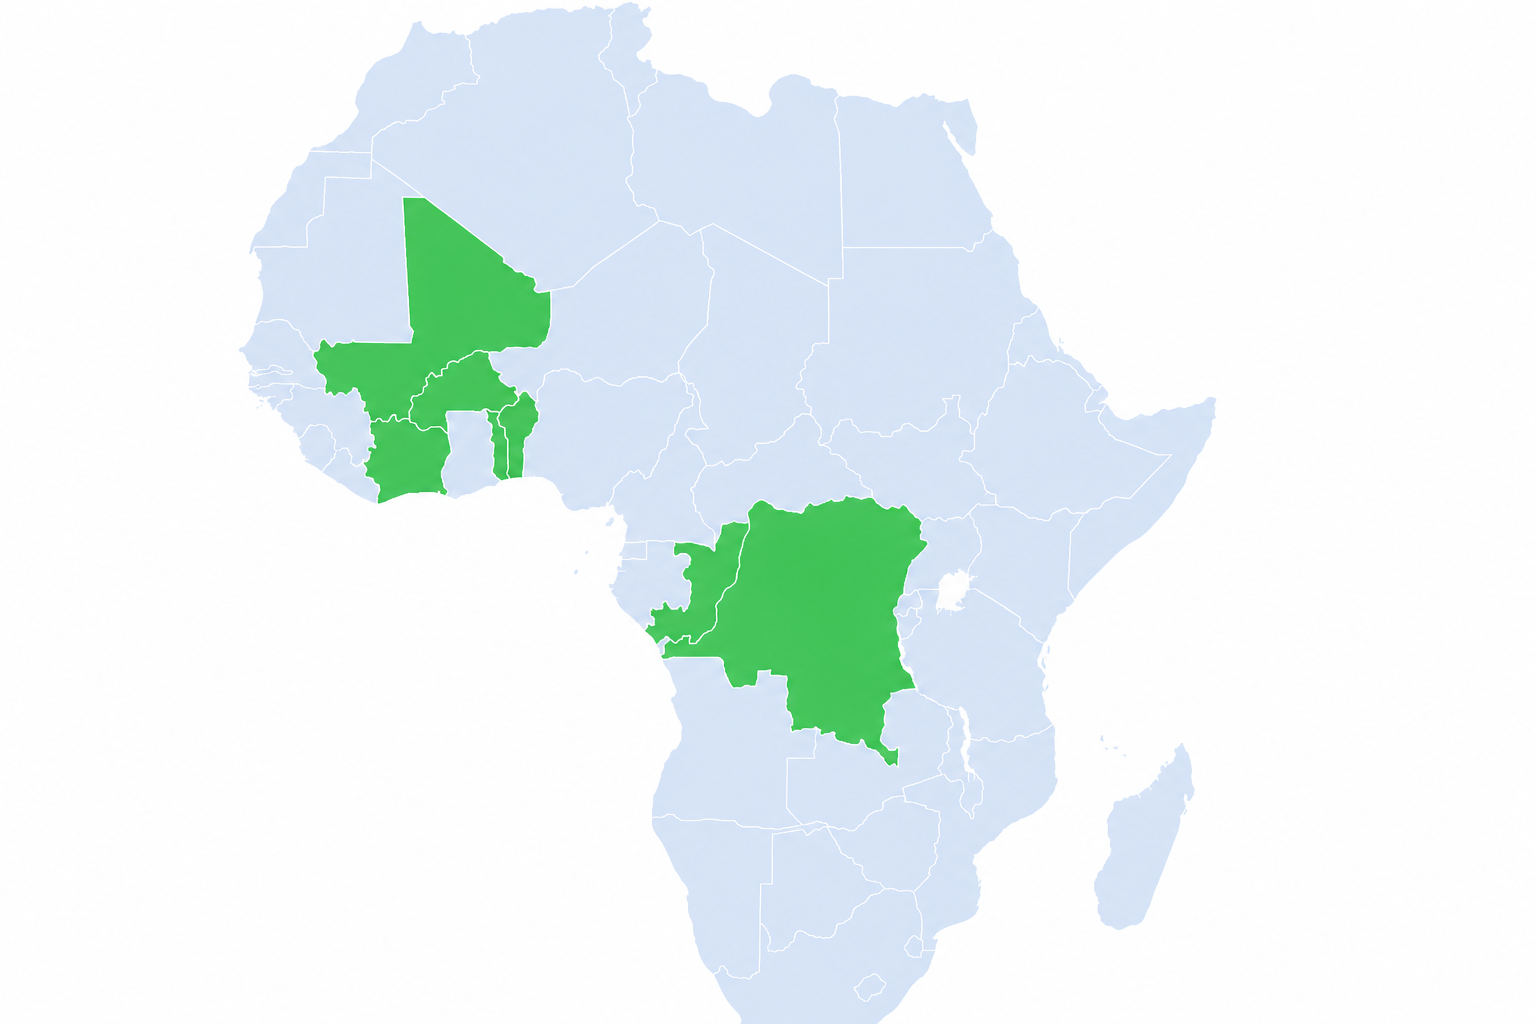
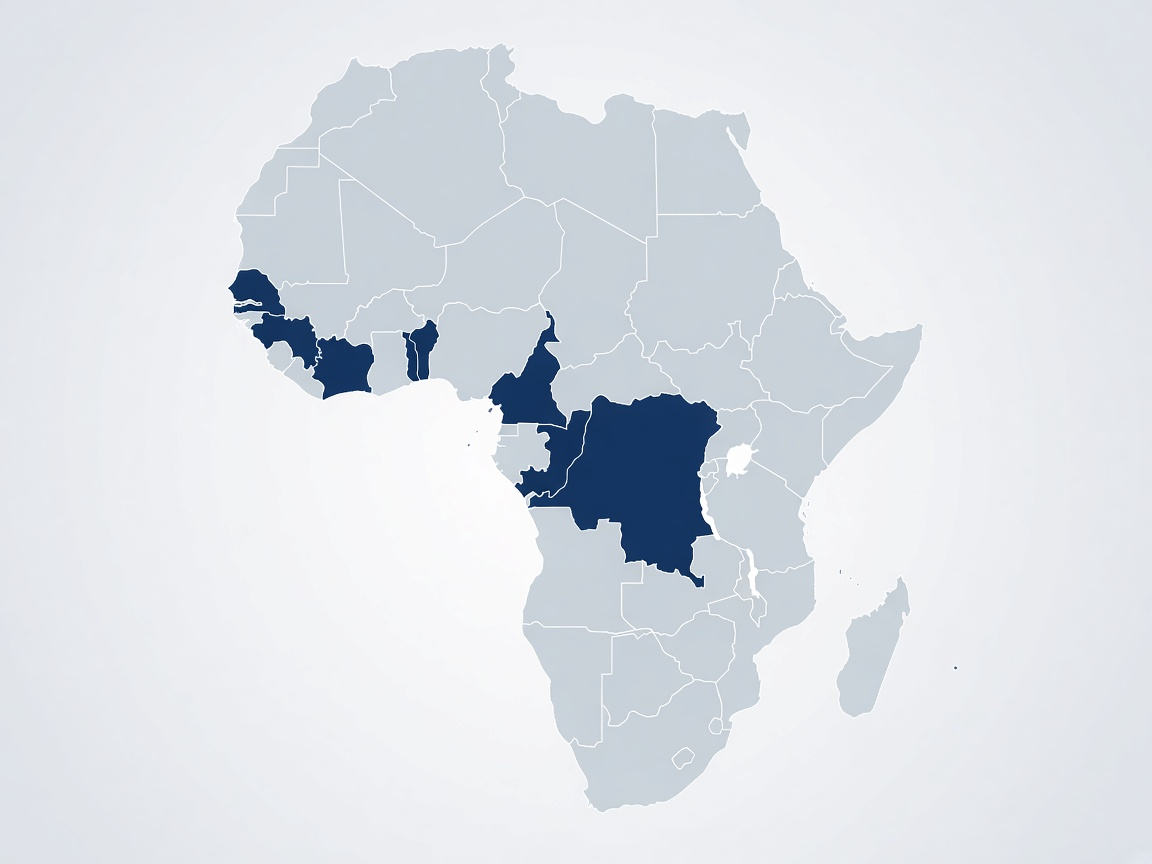
Align FidexaPay coverage to seven markets and drop Burkina, Mali, Togo.
Update homepage map, flags, payment country lists, profile currencies, and SEO copy to Cameroun, Senegal, Cote d'Ivoire, RD Congo, Congo, Benin, and Gabon.

diff --git a/src/components/brand/AfricaCoverageMap.tsx b/src/components/brand/AfricaCoverageMap.tsx
@@ -2,14 +2,15 @@ import { motion, AnimatePresence } from 'framer-motion';
 import { useEffect, useState } from 'react';
 import { cn } from '@/lib/utils';
 
+/** 7 pays couverts FidexaPay — positions relatives sur la carte */
 export const COVERED_COUNTRIES = [
-  { id: 'bj', name: 'Bénin', flagSrc: '/assets/flags/bj.svg', x: 36.2, y: 44.5 },
-  { id: 'bf', name: 'Burkina Faso', flagSrc: '/assets/flags/bf.svg', x: 32.8, y: 38.5 },
+  { id: 'sn', name: 'Sénégal', flagSrc: '/assets/flags/sn.svg', x: 18.5, y: 31.5 },
   { id: 'ci', name: "Côte d'Ivoire", flagSrc: '/assets/flags/ci.svg', x: 28.5, y: 46.5 },
-  { id: 'cd', name: 'RD Congo', flagSrc: '/assets/flags/cd.svg', x: 54.5, y: 60 },
+  { id: 'bj', name: 'Bénin', flagSrc: '/assets/flags/bj.svg', x: 36.2, y: 44.5 },
+  { id: 'cm', name: 'Cameroun', flagSrc: '/assets/flags/cm.svg', x: 44.5, y: 49 },
+  { id: 'ga', name: 'Gabon', flagSrc: '/assets/flags/ga.svg', x: 45.5, y: 55.5 },
   { id: 'cg', name: 'Congo', flagSrc: '/assets/flags/cg.svg', x: 48.5, y: 56 },
-  { id: 'ml', name: 'Mali', flagSrc: '/assets/flags/ml.svg', x: 29.5, y: 32 },
-  { id: 'tg', name: 'Togo', flagSrc: '/assets/flags/tg.svg', x: 34.8, y: 45.5 },
+  { id: 'cd', name: 'RD Congo', flagSrc: '/assets/flags/cd.svg', x: 54.5, y: 60 },
 ] as const;
 
 type AfricaCoverageMapProps = {
@@ -28,7 +29,7 @@ export function AfricaCoverageMap({
   const isLight = theme === 'light';
   const [internalActive, setInternalActive] = useState(0);
   const active = activeIndex ?? internalActive;
-  const activeCountry = COVERED_COUNTRIES[active] ?? COVERED_COUNTRIES[5];
+  const activeCountry = COVERED_COUNTRIES[active] ?? COVERED_COUNTRIES[0];
 
   useEffect(() => {
     if (activeIndex !== undefined) return;
@@ -83,7 +84,14 @@ export function AfricaCoverageMap({
               <motion.span
                 animate={
                   isActive
-                    ? { scale: [1, 1.2, 1], boxShadow: ['0 0 0 0 rgba(43,182,115,0.5)', '0 0 0 10px rgba(43,182,115,0)', '0 0 0 0 rgba(43,182,115,0.5)'] }
+                    ? {
+                        scale: [1, 1.2, 1],
+                        boxShadow: [
+                          '0 0 0 0 rgba(43,182,115,0.5)',
+                          '0 0 0 10px rgba(43,182,115,0)',
+                          '0 0 0 0 rgba(43,182,115,0.5)',
+                        ],
+                      }
                     : { scale: 1, boxShadow: '0 0 0 0 rgba(43,182,115,0)' }
                 }
                 transition={isActive ? { duration: 1.5, repeat: Infinity } : { duration: 0.25 }}
@@ -107,9 +115,7 @@ export function AfricaCoverageMap({
             transition={{ duration: 0.28 }}
             className={cn(
               'inline-flex items-center gap-3 rounded-full border px-4 py-2.5 shadow-sm',
-              isLight
-                ? 'border-black/[0.06] bg-white'
-                : 'border-white/10 bg-[#0B1220]/85'
+              isLight ? 'border-black/[0.06] bg-white' : 'border-white/10 bg-[#0B1220]/85'
             )}
           >
             <img src={activeCountry.flagSrc} alt="" className="h-5 w-7 rounded-sm object-cover" />
@@ -123,19 +129,20 @@ export function AfricaCoverageMap({
       </div>
 
       {showLegend && (
-        <ul className="mt-4 flex flex-wrap justify-center gap-2">
+        <ul className="mt-6 flex flex-wrap justify-center gap-2">
           {COVERED_COUNTRIES.map((c, i) => (
-            <li
-              key={c.id}
-              className={cn(
-                'inline-flex items-center gap-1.5 rounded-full border px-2.5 py-1 text-xs transition-colors',
-                i === active
-                  ? 'border-[#2BB673]/50 bg-[#E8F8F0] text-[#1A3A5C]'
-                  : 'border-black/[0.06] bg-white text-[#6B7280]'
-              )}
-            >
-              <img src={c.flagSrc} alt="" className="h-3.5 w-5 rounded-[2px] object-cover" loading="lazy" />
-              {c.name}
+            <li key={c.id}>
+              <span
+                className={cn(
+                  'inline-flex items-center gap-2 rounded-full border px-3 py-1.5 text-xs',
+                  i === active
+                    ? 'border-[#2BB673]/40 bg-[#E8F8F0] text-[#1A3A5C]'
+                    : 'border-black/[0.06] bg-white text-[#5c7188]'
+                )}
+              >
+                <img src={c.flagSrc} alt="" className="h-3.5 w-5 rounded-[2px] object-cover" />
+                {c.name}
+              </span>
             </li>
           ))}
         </ul>
@@ -143,5 +150,3 @@ export function AfricaCoverageMap({
     </div>
   );
 }
-
-export default AfricaCoverageMap;

diff --git a/src/lib/kpayProviders.ts b/src/lib/kpayProviders.ts
@@ -6,7 +6,8 @@ export type KPayCountry = {
 };
 
 /** Pays affichés côté client / couverture FidexaPay */
-export const FIDEXA_COVERAGE_CODES = ['BJ', 'BF', 'CI', 'CD', 'CG', 'ML', 'TG'] as const;
+/** Couverture FidexaPay : BJ, CM, CI, CD, CG, SN, GA */
+export const FIDEXA_COVERAGE_CODES = ['BJ', 'CM', 'CI', 'CD', 'CG', 'SN', 'GA'] as const;
 
 export type FidexaCoverageCode = (typeof FIDEXA_COVERAGE_CODES)[number];
 
@@ -18,15 +19,6 @@ export const KPAY_COUNTRIES: KPayCountry[] = [
     providers: [
       { code: 'MTN_MOMO_BEN', label: 'MTN MoMo' },
       { code: 'MOOV_BEN', label: 'Moov Money' },
-    ],
-  },
-  {
-    code: 'BF',
-    name: 'Burkina Faso',
-    phonePrefix: '+226',
-    providers: [
-      { code: 'ORANGE_BFA', label: 'Orange Money' },
-      { code: 'MOOV_BFA', label: 'Moov Money' },
     ],
   },
   {
@@ -69,33 +61,10 @@ export const KPAY_COUNTRIES: KPayCountry[] = [
     ],
   },
   {
-    code: 'ML',
-    name: 'Mali',
-    phonePrefix: '+223',
-    providers: [
-      { code: 'ORANGE_MLI', label: 'Orange Money' },
-      { code: 'AIRTEL_MLI', label: 'Airtel Money' },
-    ],
-  },
-  {
-    code: 'TG',
-    name: 'Togo',
-    phonePrefix: '+228',
-    providers: [
-      { code: 'MTN_MOMO_TGO', label: 'MTN MoMo' },
-      { code: 'MOOV_TGO', label: 'Moov Money' },
-    ],
-  },
-  { code: 'GA', name: 'Gabon', phonePrefix: '+241', providers: [{ code: 'AIRTEL_GAB', label: 'Airtel Money' }] },
-  { code: 'KE', name: 'Kenya', phonePrefix: '+254', providers: [{ code: 'MPESA_KEN', label: 'M-Pesa' }] },
-  {
-    code: 'RW',
-    name: 'Rwanda',
-    phonePrefix: '+250',
-    providers: [
-      { code: 'AIRTEL_RWA', label: 'Airtel Money' },
-      { code: 'MTN_MOMO_RWA', label: 'MTN MoMo' },
-    ],
+    code: 'GA',
+    name: 'Gabon',
+    phonePrefix: '+241',
+    providers: [{ code: 'AIRTEL_GAB', label: 'Airtel Money' }],
   },
   {
     code: 'SN',
@@ -104,6 +73,18 @@ export const KPAY_COUNTRIES: KPayCountry[] = [
     providers: [
       { code: 'FREE_SEN', label: 'Free Money' },
       { code: 'ORANGE_SEN', label: 'Orange Money' },
+      { code: 'WAVE_SEN', label: 'Wave' },
+    ],
+  },
+  // Autres pays KPay (hors couverture Fidexa — utiles pour API / settle)
+  { code: 'KE', name: 'Kenya', phonePrefix: '+254', providers: [{ code: 'MPESA_KEN', label: 'M-Pesa' }] },
+  {
+    code: 'RW',
+    name: 'Rwanda',
+    phonePrefix: '+250',
+    providers: [
+      { code: 'AIRTEL_RWA', label: 'Airtel Money' },
+      { code: 'MTN_MOMO_RWA', label: 'MTN MoMo' },
     ],
   },
   { code: 'SL', name: 'Sierra Leone', phonePrefix: '+232', providers: [{ code: 'ORANGE_SLE', label: 'Orange Money' }] },

diff --git a/src/components/brand/MobileMoneyIcons.tsx b/src/components/brand/MobileMoneyIcons.tsx
@@ -35,11 +35,11 @@ export function VodafoneCashIcon({ className, title = 'Vodafone Cash' }: IconPro
 }
 
 export const MOBILE_MONEY_NETWORKS = [
-  { id: 'orange', name: 'Orange Money', Icon: OrangeMoneyIcon, countries: 'CI · SN · ML · BF · CD' },
-  { id: 'mtn', name: 'MTN MoMo', Icon: MtnMoneyIcon, countries: 'CI · BJ · CG · CM · TG' },
-  { id: 'airtel', name: 'Airtel Money', Icon: AirtelMoneyIcon, countries: 'CD · CG · ML' },
+  { id: 'orange', name: 'Orange Money', Icon: OrangeMoneyIcon, countries: 'CI · SN · CM · CD' },
+  { id: 'mtn', name: 'MTN MoMo', Icon: MtnMoneyIcon, countries: 'CI · BJ · CG · CM' },
+  { id: 'airtel', name: 'Airtel Money', Icon: AirtelMoneyIcon, countries: 'CD · CG · GA' },
   { id: 'mpesa', name: 'M-Pesa', Icon: MpesaIcon, countries: 'CD' },
-  { id: 'moov', name: 'Moov Money', Icon: MoovMoneyIcon, countries: 'CI · BJ · TG · BF' },
+  { id: 'moov', name: 'Moov Money', Icon: MoovMoneyIcon, countries: 'CI · BJ' },
   { id: 'wave', name: 'Wave', Icon: WaveIcon, countries: 'CI · SN · BJ' },
   { id: 'vodafone', name: 'Vodafone Cash', Icon: VodafoneCashIcon, countries: 'CD' },
 ] as const;

diff --git a/src/lib/countriesData.ts b/src/lib/countriesData.ts
@@ -75,19 +75,31 @@ export const COUNTRIES_DATA = {
     flag: '🇨🇲',
     phonePrefix: '+237',
   },
-  'TG': {
-    name: 'Togo',
-    nameFR: 'Togo',
-    code: 'TG',
+  'SN': {
+    name: 'Senegal',
+    nameFR: 'Sénégal',
+    code: 'SN',
     currency: 'XOF',
     currencyName: 'Franc CFA WAEMU',
     mobileMoneyProviders: [
       { name: 'Orange Money', icon: '📱' },
-      { name: 'MTN Money', icon: '📱' },
+      { name: 'Free Money', icon: '📱' },
       { name: 'Wave', icon: '📱' },
     ],
-    flag: '🇹🇬',
-    phonePrefix: '+228',
+    flag: '🇸🇳',
+    phonePrefix: '+221',
+  },
+  'GA': {
+    name: 'Gabon',
+    nameFR: 'Gabon',
+    code: 'GA',
+    currency: 'XAF',
+    currencyName: 'Franc CFA BEAC',
+    mobileMoneyProviders: [
+      { name: 'Airtel Money', icon: '📱' },
+    ],
+    flag: '🇬🇦',
+    phonePrefix: '+241',
   },
 } as const;
 

diff --git a/src/pages/Profile.tsx b/src/pages/Profile.tsx
@@ -311,14 +311,10 @@ export function Profile() {
               )}
               {(formData.country === 'CI' ||
                 formData.country === 'SN' ||
-                formData.country === 'BF' ||
-                formData.country === 'BJ' ||
-                formData.country === 'TG' ||
-                formData.country === 'ML' ||
-                formData.country === 'NE') && (
+                formData.country === 'BJ') && (
                 <SelectItem value="XOF">XOF</SelectItem>
               )}
-              {!['CD', 'CG', 'CM', 'GA', 'CI', 'SN', 'BF', 'BJ', 'TG', 'ML', 'NE'].includes(formData.country) && (
+              {!['CD', 'CG', 'CM', 'GA', 'CI', 'SN', 'BJ'].includes(formData.country) && (
                 <>
                   <SelectItem value="CDF">CDF</SelectItem>
                   <SelectItem value="XAF">XAF</SelectItem>

diff --git a/index.html b/index.html
@@ -10,7 +10,7 @@
     />
     <meta
       name="keywords"
-      content="FidexaPay, paiement Mobile Money, escrow Afrique, paiement sécurisé freelance, Orange Money, MTN MoMo, Airtel Money, Wave, séquestre, prestataire Afrique, RD Congo, Côte d'Ivoire"
+      content="FidexaPay, paiement Mobile Money, escrow Afrique, paiement sécurisé freelance, Orange Money, MTN MoMo, Airtel Money, Wave, séquestre, Cameroun, Sénégal, Côte d'Ivoire, RD Congo, Congo, Bénin, Gabon"
     />
     <meta name="author" content="FidexaPay" />
     <meta name="robots" content="index, follow, max-image-preview:large, max-snippet:-1, max-video-preview:-1" />

diff --git a/src/pages/Landing.tsx b/src/pages/Landing.tsx
@@ -107,7 +107,7 @@ const FAQ = [
   },
   {
     q: 'Dans quels pays FidexaPay est-il disponible ?',
-    a: 'Actuellement dans plusieurs pays d’Afrique de l’Ouest et d’Afrique centrale. La liste évolue au fur et à mesure des intégrations opérateurs.',
+    a: 'Actuellement au Cameroun, Sénégal, Côte d’Ivoire, RD Congo, Congo, Bénin et Gabon — via Mobile Money local.',
   },
 ];
 
